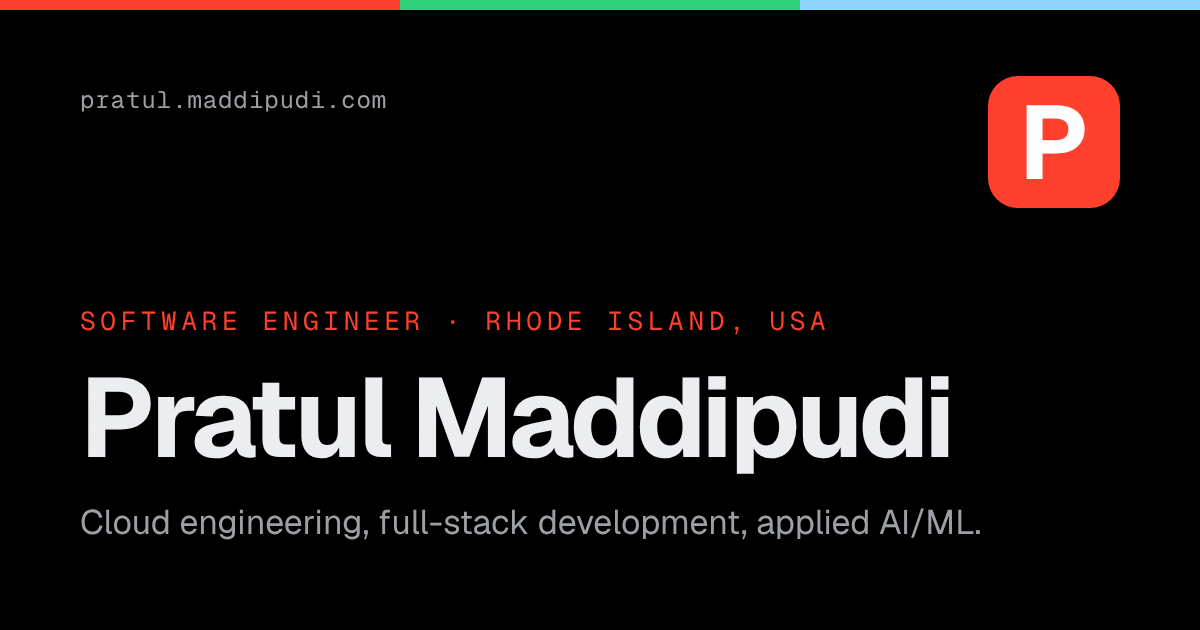
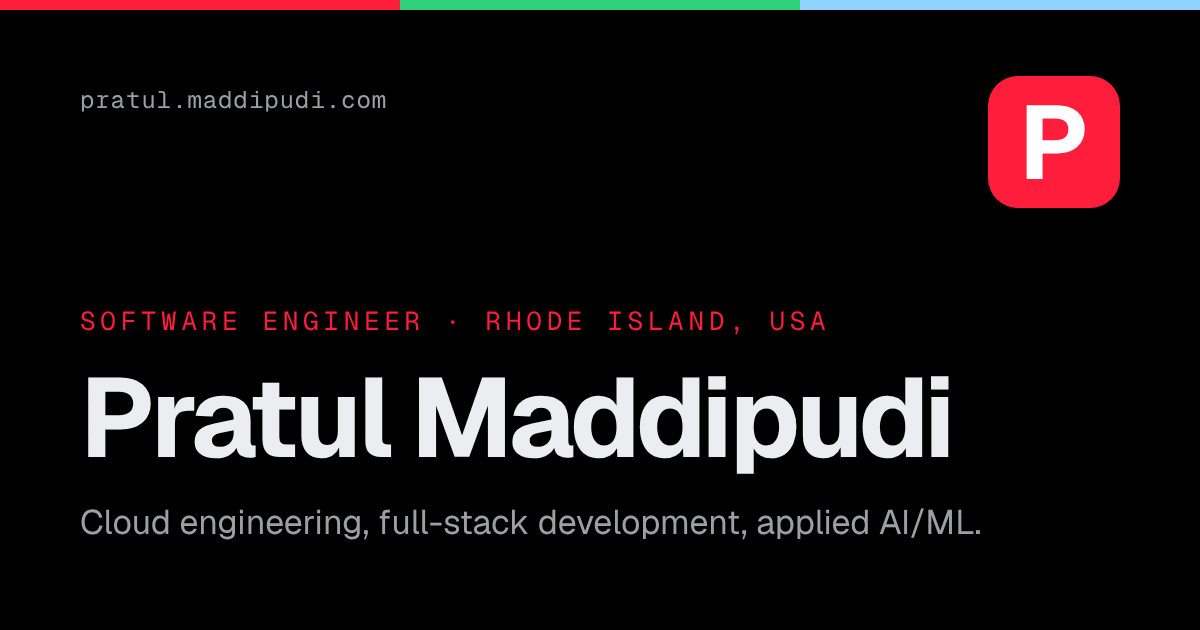
Swap orange-tinted red for a sharper, brighter true red
The old dark-mode accent (#ff402d) read as orange. Retune the red tokens
(light #e0001c, dark #ff1f3d, both still >= 4.8:1 contrast on their
backgrounds) and regenerate the tab icon, touch icon, and share card to
match.

Claude-Session: https://claude.ai/code/session_01EpDdL4ePDjVvXDyhydKNVL

diff --git a/src/styles/globals.css b/src/styles/globals.css
@@ -27,7 +27,7 @@
 
   /* Bright red · dark forest green · sky blue (darkened here for
 	   contrast on paper; the true light-sky reading lives in dark mode). */
-  --accent-red: oklch(56% 0.23 28);
+  --accent-red: oklch(57.1% 0.232 26.5);
   --accent-green: oklch(43% 0.12 150);
   --accent-blue: oklch(55% 0.13 238);
   --accent: var(--accent-red);
@@ -48,7 +48,7 @@
 
     /* On OLED black: red stays bright, green keeps its forest depth,
 		   blue reads as true light sky. */
-    --accent-red: oklch(67% 0.235 30);
+    --accent-red: oklch(63.9% 0.246 22.9);
     --accent-green: oklch(65% 0.15 150);
     --accent-blue: oklch(80% 0.12 227);
 
@@ -68,7 +68,7 @@
   --line: oklch(26% 0.008 250);
   --panel: oklch(14% 0.006 250);
 
-  --accent-red: oklch(67% 0.235 30);
+  --accent-red: oklch(63.9% 0.246 22.9);
   --accent-green: oklch(65% 0.15 150);
   --accent-blue: oklch(80% 0.12 227);
 
